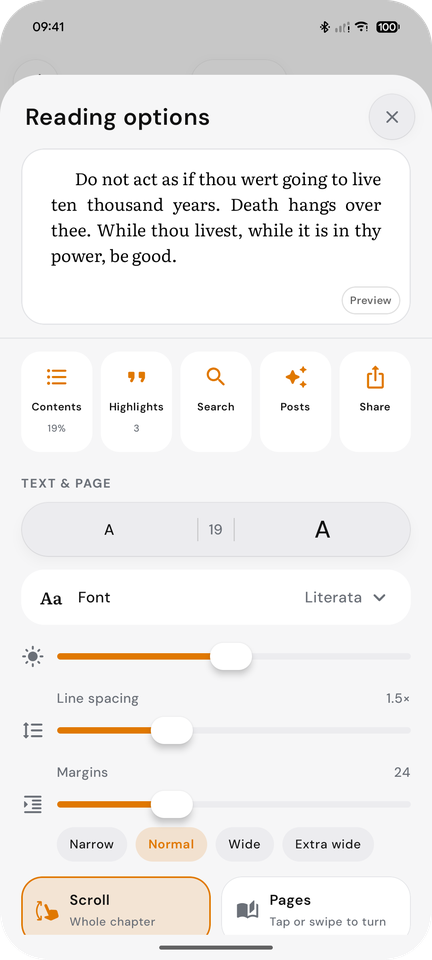
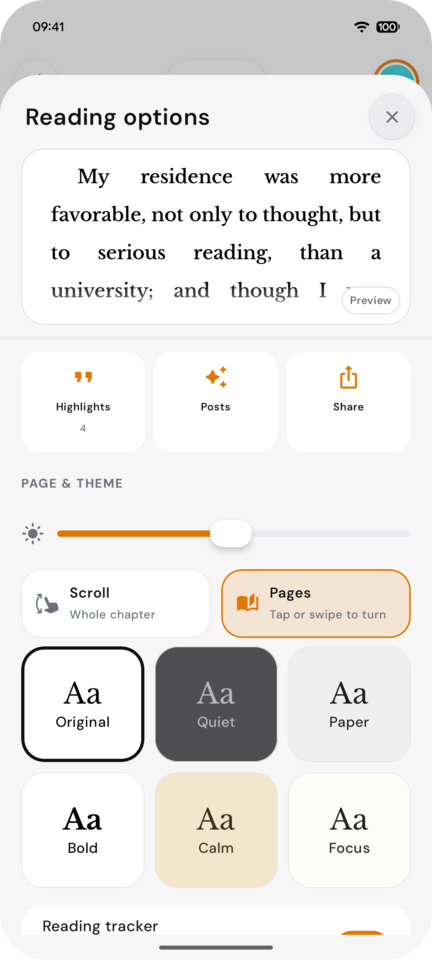
Version 1.4.0; new reader screenshots; Drive sync plan in the to-do
README screenshots of the reading options, text sheet and tracker options
use Walden. The to-do gains the Google Drive sync plan for Android and
desktop, and Android follow-ups.

diff --git a/todo.md b/todo.md
@@ -1,5 +1,40 @@
 # GBook — To do
 
+## Google Drive sync (Android and desktop)
+
+Read on the phone, pick up in the same place on the PC. Everything stays in the user's own Drive, so GBook still
+has no server of its own.
+
+### Plan
+- [ ] **Storage:** reading state in the Drive *appDataFolder* (hidden, per-app; the `drive.appdata` scope needs no
+  security assessment, unlike full Drive access). Book files optionally in a visible "GBook" folder (`drive.file`)
+  so a book added on one device appears on the other
+- [ ] **What syncs:** reading position and progress, highlights and notes, reactions, posts (likes, saves),
+  reading plans, collections, settings, and reading time
+- [ ] **Format:** one shared sync document (or one per book) that both apps read and write; document it under
+  `shared/` so the Kotlin and Rust sides agree
+- [ ] **Merging:**
+  - position: the most recently read device wins
+  - highlights, notes, posts, collections: merge by id, with tombstones so a deletion spreads instead of the item
+    coming back from the other device
+  - reading time: kept per device and summed, so nothing is double counted
+  - settings: last change wins, field by field
+- [ ] **When:** pull on app start and on opening a book; push after closing a book, on leaving the app, and every
+  few minutes while reading; poll the Drive changes feed instead of re-downloading everything
+- [ ] **Android:** Google sign-in and Drive authorization (Identity `AuthorizationClient`), Drive REST v3 calls;
+  local data stays the source of truth and works offline
+- [ ] **Desktop:** OAuth loopback sign-in in the browser (PKCE), token in the system keyring, same REST calls
+- [ ] **Google Cloud:** one project with an OAuth consent screen, Android and desktop client IDs
+- [ ] **UI:** Settings › Google Drive: "Sync with Google Drive" switch, account, "Synced 2 min ago", Sync now
+- [ ] **Testing:** phone and PC editing the same book offline, then both coming online; deleting on one side;
+  two phones on one account
+
+## Android follow-ups
+- [ ] Scanned PDFs with no text layer (e.g. *Computer Lib*): show the rendered page images in reading mode
+- [ ] Soft fade at the ends of scrolling chapter names
+- [ ] Desktop parity for the new reader bar (search, Aa, contents, ···), the goal ring with the Today sheet, and
+  images in reflowed PDFs
+
 ## Desktop app (Rust): Linux and Windows
 
 The Linux app is in `desktop/`: a GTK 4 UI (`app/`) over a UI-free core (`core/`) that shares the Android library
@@ -42,7 +77,7 @@ format. See the README's "Desktop app" section.
 - [x] Same `library.json` schema as Android, unknown fields preserved on save
 - [x] Import/export the Android backup `.zip` (library.json + books/)
 - [x] Data in `~/.local/share/gbook` (`$GBOOK_DATA_DIR` overrides)
-- [ ] Later: optional Google Drive sync via the Drive API (needs an OAuth client)
+- [ ] Optional Google Drive sync via the Drive API: see "Google Drive sync" at the top
 
 ### Performance (measured with 100 books, release build)
 - [x] Cold start under 300 ms: ~250 ms to the first frame

diff --git a/README.md b/README.md
@@ -52,12 +52,13 @@ An open-source Android eReader for EPUB and PDF, built with Kotlin and Jetpack C
 - **Search** tab for books, authors, collections and highlights.
 - **First-run welcome**: a short splash, then set up your profile picture (with a circle cropper) and import your first books.
 - **Reading time**: today's minutes, a 7-day chart, streak and all-time totals, plus time spent in each book.
-- **Reader** with ten open-licence reading fonts (including Libre Baskerville), text size buttons and pinch-to-resize, page themes, line spacing, adjustable margins, contents and search, all in one **Reading options** sheet with a live preview of the page you're on.
+- **Reader** with a bar of quick buttons for search, text (**Aa**), contents and the rest of the reading options: ten open-licence reading fonts (including Libre Baskerville), text size buttons and pinch-to-resize, page themes, line spacing and adjustable margins, each sheet with a live preview of the page you're on. Long chapter names scroll instead of being cut off.
+- **Daily goal ring**: in the reader your profile picture is ringed with today's progress toward your reading goal; tap it for today's minutes, this sitting and the book's reading plan.
 - **Scroll or turn pages**: scroll through a whole chapter, or read one page at a time and tap or swipe to turn. Both show the page number, pages left in the chapter and a progress line.
 - **Reading tracker**: turn the wheel on the right edge to move a marker through the text word by word or sentence by sentence. Pick a highlight colour in its options and turning the wheel highlights what the marker passes. The wheel can sit in the middle or at the bottom of the screen.
 - **Highlights** across paragraphs with drag handles, a lens loupe, and a marker or underline style, grouped by book in the Library and searchable by book or wording.
 - **Feed** of posts built on-device from chapter key ideas, recap carousels and your highlights.
-- **PDF** page view with zoom, plus a reflowed text mode that reads like an EPUB: paragraphs, headings and named chapters are rebuilt from the page layout, and running headers and page numbers are dropped.
+- **PDF** page view with zoom, plus a reflowed text mode that reads like an EPUB: paragraphs, headings and named chapters are rebuilt from the page layout, figures and photos are placed where they appear in the text, and running headers and page numbers are dropped.
 - **Make it yours**: accent palettes, light/dark/system mode, pure black, two bottom-bar styles with a separate search button, symbol or Noto 3D emoji icons, and a profile picture.
 - **Google Drive** backup, restore and import through the system file picker.
 
